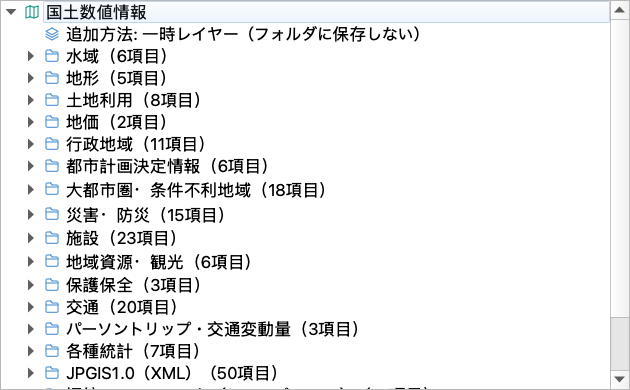
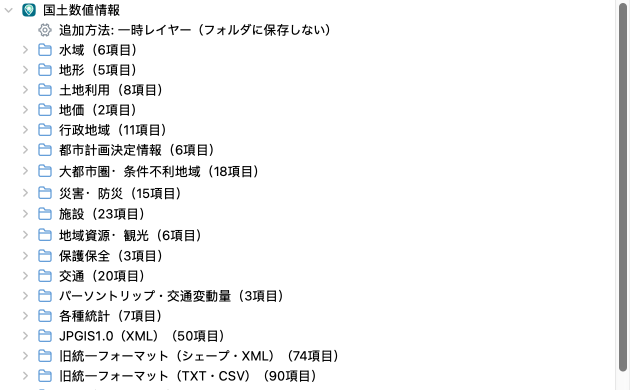
docs: README 用の画像を撮影スクリプトで現在の表示に更新
ブラウザパネルの 3 枚はルート名・ルートアイコン・「追加方法」行を現行に合わせ、
配布ファイル選択ダイアログはライト表示の PNG で撮り直した。
撮影手順を scripts/capture_readme_images.py に残す。

Claude-Session: https://claude.ai/code/session_01SRJgpJFmJdYJ2mrXw2HU5f

Changed region(s): [[0.0, 0.0, 1.0, 1.0]]

diff --git a/scripts/capture_readme_images.py b/scripts/capture_readme_images.py
@@ -1,0 +1,297 @@
+"""README 用のスクリーンショットを QGIS 同梱 Python で描画して書き出す（macOS 専用）。
+
+リポジトリのルートで実行する。
+
+    source setup_qgis_env.sh
+    .venv/bin/python scripts/capture_readme_images.py                     # 4 枚すべて
+    .venv/bin/python scripts/capture_readme_images.py --only browser-loading-mode
+
+- ウィンドウが数秒だけ画面に出る。システムがダーク表示でも Aqua（ライト）で描画する。
+- browser-loading-indicator は ZIP の目次を部分取得するため通信が発生する。
+- 利用者の QgsSettings には書き込まない。追加方法の表示は関数の差し替えで作る。
+"""
+
+import argparse
+import ctypes
+import ctypes.util
+import sys
+import time
+from collections import namedtuple
+from pathlib import Path
+
+from qgis.core import (
+    QgsApplication,
+    QgsBrowserModel,
+    QgsBrowserProxyModel,
+    QgsDataItem,
+)
+from qgis.gui import QgsBrowserTreeView
+from qgis.PyQt.QtCore import Qt, QTimer
+from qgis.PyQt.QtWidgets import QAbstractItemView, QApplication
+
+ROOT = Path(__file__).resolve().parents[1]
+QGIS_PREFIX = "/Applications/QGIS.app/Contents/MacOS"
+PROVIDER_NAME = "国土数値情報ブラウザ"
+# 配布が 2 件（世界測地系・日本測地系）あり、選択ダイアログが開くメッシュ。
+MESH_DATASET = "gml_datalist_KsjTmplt-L03-a-2021"
+MESH_YEAR = "2021年"
+MESH_CODE = "3622"
+MESH_ARCHIVE = "L03-a-21_3622-jgd2011_GML.zip"
+MESH_FILE = "L03-a-21_3622.shp"
+SETTLE_SECONDS = 0.5
+TIMEOUT_SECONDS = 60
+# 読み込み中の判定は url と member だけを見る。
+FakeKey = namedtuple("FakeKey", "url member")
+
+
+def force_light_appearance():
+    """システムがダーク表示でも Aqua（ライト）で描画する。QgsApplication 生成後に呼ぶ。"""
+    objc = ctypes.cdll.LoadLibrary(ctypes.util.find_library("objc"))
+    appkit = ctypes.cdll.LoadLibrary(
+        "/System/Library/Frameworks/AppKit.framework/AppKit"
+    )
+    objc.objc_getClass.restype = ctypes.c_void_p
+    objc.objc_getClass.argtypes = [ctypes.c_char_p]
+    objc.sel_registerName.restype = ctypes.c_void_p
+    objc.sel_registerName.argtypes = [ctypes.c_char_p]
+
+    def send(receiver, selector, *args):
+        objc.objc_msgSend.restype = ctypes.c_void_p
+        objc.objc_msgSend.argtypes = [ctypes.c_void_p, ctypes.c_void_p] + [
+            ctypes.c_void_p
+        ] * len(args)
+        return objc.objc_msgSend(
+            receiver, objc.sel_registerName(selector.encode()), *args
+        )
+
+    aqua = ctypes.c_void_p.in_dll(appkit, "NSAppearanceNameAqua")
+    appearance = send(objc.objc_getClass(b"NSAppearance"), "appearanceNamed:", aqua)
+    nsapp = send(objc.objc_getClass(b"NSApplication"), "sharedApplication")
+    send(nsapp, "setAppearance:", appearance)
+
+
+def pump_until(app, predicate):
+    """イベントを処理しながら条件が成り立つまで待つ。"""
+    deadline = time.monotonic() + TIMEOUT_SECONDS
+    while not predicate():
+        if time.monotonic() > deadline:
+            raise TimeoutError("ブラウザ項目の読み込みが時間内に終わりませんでした")
+        app.processEvents()
+        time.sleep(0.01)
+
+
+def settle(app):
+    """描画が落ち着くまでイベントを回す。"""
+    deadline = time.monotonic() + SETTLE_SECONDS
+    while time.monotonic() < deadline:
+        app.processEvents()
+        time.sleep(0.01)
+
+
+def save_1x(pixmap, path):
+    """Retina の 2x 画像を 1x に縮小して保存する。"""
+    image = pixmap.toImage()
+    ratio = pixmap.devicePixelRatio()
+    if ratio > 1:
+        image = image.scaled(
+            int(image.width() / ratio),
+            int(image.height() / ratio),
+            Qt.AspectRatioMode.KeepAspectRatio,
+            Qt.TransformationMode.SmoothTransformation,
+        )
+    if not image.save(str(path)):
+        raise RuntimeError(f"保存できません: {path}")
+    print(f"saved {path} {image.width()}x{image.height()}")
+
+
+class Browser:
+    """「国土数値情報」のルートだけを表示するブラウザツリー。"""
+
+    def __init__(self, app):
+        from ksj.browser import KsjDataItemProvider
+
+        self.app = app
+        self.provider = KsjDataItemProvider()
+        QgsApplication.dataItemProviderRegistry().addProvider(self.provider)
+        self.model = QgsBrowserModel()
+        self.model.initialize()
+        self.proxy = QgsBrowserProxyModel()
+        self.proxy.setBrowserModel(self.model)
+        self.proxy.setShownDataItemProviderKeyFilter([PROVIDER_NAME])
+        # QGIS のブラウザパネルと同じく sortKey 順（分類・都道府県の公式順）に並べる。
+        self.proxy.sort(0)
+        self.view = QgsBrowserTreeView()
+        self.view.setModel(self.proxy)
+        self.view.setHeaderHidden(True)
+        self.root = self.model.findPath("/ksj")
+
+    def expand(self, index):
+        """子を読み込んで展開し、子の index を返す。"""
+        self.model.fetchMore(index)
+        item = self.model.dataItem(index)
+        pump_until(
+            self.app,
+            lambda: item.state() == QgsDataItem.State.Populated
+            and self.model.rowCount(index) > 0,
+        )
+        self.view.expand(self.proxy.mapFromSource(index))
+        rows = range(self.model.rowCount(index))
+        return [self.model.index(row, 0, index) for row in rows]
+
+    def child(self, index, name, exact=False):
+        """index を展開し、name で始まる（exact なら一致する）子を返す。"""
+        for child in self.expand(index):
+            label = self.model.data(child)
+            if (label == name) if exact else label.startswith(name):
+                return child
+        raise LookupError(f"ブラウザ項目が見つかりません: {name}")
+
+    def select(self, index):
+        self.view.setCurrentIndex(self.proxy.mapFromSource(index))
+
+    def capture(self, width, height, path, focus=None):
+        """表示して撮る。focus を渡すとその行が下端に来るまでスクロールする。"""
+        self.view.resize(width, height)
+        self.view.show()
+        settle(self.app)
+        if focus is not None:
+            self.view.scrollTo(
+                self.proxy.mapFromSource(focus),
+                QAbstractItemView.ScrollHint.PositionAtBottom,
+            )
+            settle(self.app)
+        save_1x(self.view.grab(), path)
+        self.view.hide()
+
+    def close(self):
+        self.model.removeRootItems()
+        QgsApplication.dataItemProviderRegistry().removeProvider(self.provider)
+
+
+def capture_browser_panel(app, path):
+    """分類 → データ → 年度 → 都道府県まで展開した全体像。"""
+    browser = Browser(app)
+    try:
+        category = browser.child(browser.root, "地形（")
+        dataset = browser.child(category, "低位地帯（ポリゴン）", exact=True)
+        year = browser.child(dataset, "2015年")
+        browser.expand(year)
+        browser.select(dataset)
+        browser.capture(440, 540, path)
+    finally:
+        browser.close()
+
+
+def capture_loading_mode(app, path):
+    """ルート直下の「追加方法」行と分類一覧。"""
+    browser = Browser(app)
+    try:
+        browser.expand(browser.root)
+        browser.capture(630, 390, path)
+    finally:
+        browser.close()
+
+
+def capture_loading_indicator(app, path):
+    """ZIP 内の .shp 行を読み込み中表示にした状態。"""
+    from ksj import layer_loading
+
+    browser = Browser(app)
+    try:
+        category = browser.child(browser.root, "土地利用（")
+        dataset = browser.child(category, "土地利用3次メッシュ", exact=True)
+        year = browser.child(dataset, MESH_YEAR)
+        mesh = browser.child(year, MESH_CODE, exact=True)
+        archive = browser.child(mesh, MESH_ARCHIVE)
+        target = browser.child(archive, MESH_FILE, exact=True)
+        item = browser.model.dataItem(target)
+        key = FakeKey(item.url, item.member)
+        layer_loading.pending[key] = None
+        layer_loading.loading_signals.changed.emit()
+        try:
+            browser.select(target)
+            browser.capture(900, 420, path, focus=target)
+        finally:
+            layer_loading.pending.pop(key, None)
+            layer_loading.loading_signals.changed.emit()
+    finally:
+        browser.close()
+
+
+def capture_mesh_resource_dialog(app, path):
+    """メッシュをクリックした後の配布ファイル選択ダイアログ。本来の関数で開く。"""
+    from ksj import catalog, mesh_index
+
+    dataset = catalog.load_dataset(MESH_DATASET)
+    resources = [
+        resource
+        for resource in dataset["resources"]
+        if resource["year"] == MESH_YEAR and catalog.mesh_code(resource) == MESH_CODE
+    ]
+    if len(resources) < 2:
+        raise LookupError(f"メッシュ {MESH_CODE} に配布が 2 件以上ありません")
+    state = {"saved": False}
+
+    def shoot():
+        dialog = QApplication.activeModalWidget()
+        if dialog is None:
+            QTimer.singleShot(100, shoot)
+            return
+        save_1x(dialog.grab(), path)
+        state["saved"] = True
+        dialog.reject()
+
+    QTimer.singleShot(int(SETTLE_SECONDS * 1000), shoot)
+    mesh_index.choose_resource(resources, MESH_CODE)
+    if not state["saved"]:
+        raise RuntimeError("配布ファイル選択ダイアログを取得できませんでした")
+
+
+CAPTURES = {
+    "browser-panel-light": capture_browser_panel,
+    "browser-loading-mode": capture_loading_mode,
+    "browser-loading-indicator": capture_loading_indicator,
+    "mesh-resource-dialog": capture_mesh_resource_dialog,
+}
+
+
+def main(argv=None):
+    parser = argparse.ArgumentParser(
+        description=__doc__, formatter_class=argparse.RawDescriptionHelpFormatter
+    )
+    parser.add_argument(
+        "--output", type=Path, default=ROOT / "imgs", help="出力先（既定: imgs/）"
+    )
+    parser.add_argument(
+        "--only",
+        action="append",
+        choices=sorted(CAPTURES),
+        help="指定した画像だけを撮る（複数指定可）",
+    )
+    args = parser.parse_args(argv)
+
+    sys.path.insert(0, str(ROOT))
+    QgsApplication.setPrefixPath(QGIS_PREFIX, True)
+    app = QgsApplication([], True)
+    app.initQgis()
+    try:
+        force_light_appearance()
+    except (OSError, AttributeError, ValueError) as exc:
+        print(f"Aqua に固定できませんでした。既定の外観で続けます: {exc}")
+
+    from ksj import local_storage
+
+    # 追加方法の表示を「一時レイヤー」に揃える。QgsSettings には書き込まない。
+    local_storage.loading_mode = lambda: "temporary"
+    local_storage.download_directory = lambda: ""
+
+    args.output.mkdir(parents=True, exist_ok=True)
+    try:
+        for name in args.only or sorted(CAPTURES):
+            CAPTURES[name](app, args.output / f"{name}.png")
+    finally:
+        app.exitQgis()
+
+
+if __name__ == "__main__":
+    main()
